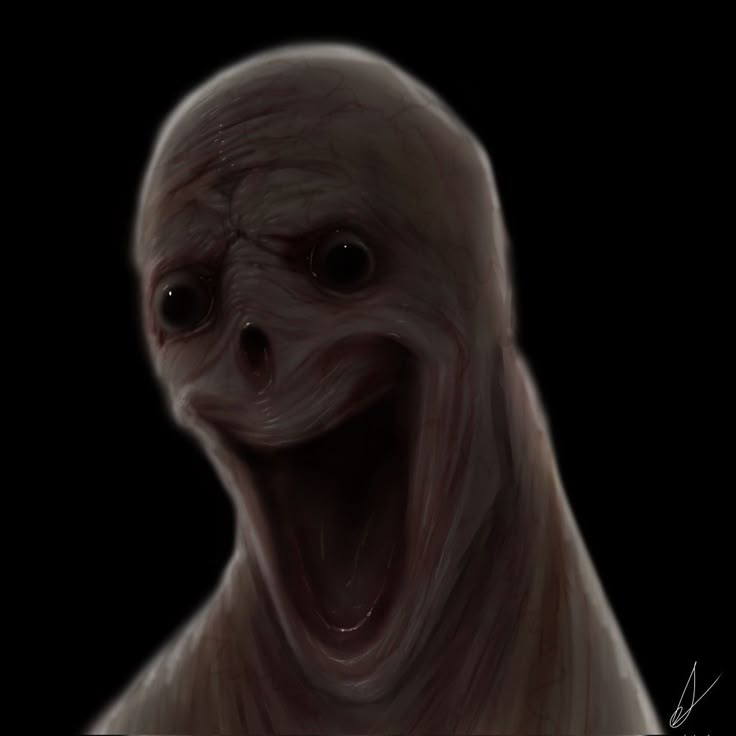
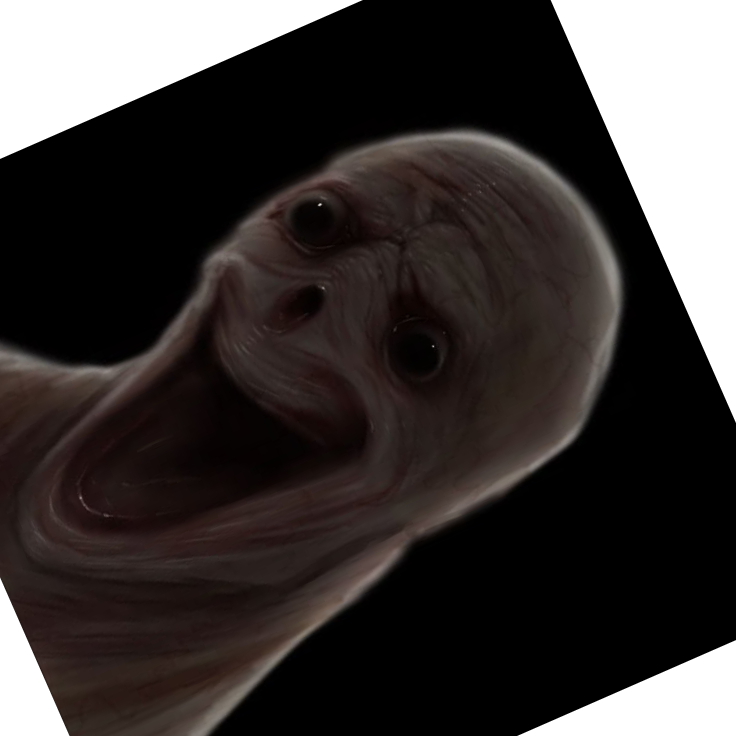
Minox Fixes

diff --git a/Tarea2-27531458-BryanSilva-28309661-OrianaArellano/src/main/kotlin/actions/RotationController.kt b/Tarea2-27531458-BryanSilva-28309661-OrianaArellano/src/main/kotlin/actions/RotationController.kt
@@ -26,29 +26,24 @@ class RotationController {
     //Rotacion
     fun rotation(imageMatrix: ImageMatrix, angle: Double): ImageMatrix {
         val src = imageMatrix.image
-        val width = src.cols()
-        val height = src.rows()
-        val center = Point(width / 2.0, height / 2.0)
+        val radians = Math.toRadians(angle)
+        val sin = abs(kotlin.math.sin(radians))
+        val cos = abs(kotlin.math.cos(radians))
+        val newWidth = (src.width() * cos + src.height() * sin).toInt()
+        val newHeight = (src.width() * sin + src.height() * cos).toInt()
+        val center = Point(src.width() / 2.0, src.height() / 2.0)
         val rotationMat = Imgproc.getRotationMatrix2D(center, angle, 1.0)
-        val absCos = abs(rotationMat.get(0, 0)[0])
-        val absSin = abs(rotationMat.get(0, 1)[0])
-        val newWidth = (height * absSin + width * absCos).toInt()
-        val newHeight = (height * absCos + width * absSin).toInt()
-        val oldCenterX = center.x
-        val oldCenterY = center.y
-        val newCenterX = newWidth / 2.0
-        val newCenterY = newHeight / 2.0
-        rotationMat.put(0, 2, rotationMat.get(0, 2)[0] + (newCenterX - oldCenterX))
-        rotationMat.put(1, 2, rotationMat.get(1, 2)[0] + (newCenterY - oldCenterY))
+        rotationMat.put(0, 2, rotationMat.get(0, 2)[0] + (newWidth / 2.0 - center.x))
+        rotationMat.put(1, 2, rotationMat.get(1, 2)[0] + (newHeight / 2.0 - center.y))
         val dest = Mat()
         Imgproc.warpAffine(
             src,
             dest,
             rotationMat,
             Size(newWidth.toDouble(), newHeight.toDouble()),
-            Imgproc.INTER_LANCZOS4,
+            Imgproc.INTER_LINEAR,
             Core.BORDER_CONSTANT,
-            Scalar(0.0, 0.0, 0.0, 0.0)
+            Scalar(0.0, 0.0, 0.0, 0.0) // Fondo transparente/negro
         )
         rotationMat.release()
         return ImageMatrix(dest)

diff --git a/Tarea2-27531458-BryanSilva-28309661-OrianaArellano/src/main/kotlin/controllers/BasicViewController.kt b/Tarea2-27531458-BryanSilva-28309661-OrianaArellano/src/main/kotlin/controllers/BasicViewController.kt
@@ -358,20 +358,20 @@ class BasicViewController {
     @FXML
     fun onRotationClockClick(event: ActionEvent) {
         matrixImage?:return
-        originalGeometryImage = rotationController.rotation(originalGeometryImage!!, 5.0)
+        originalGeometryImage = rotationController.rotation(originalGeometryImage!!, -5.0)
         imageController.changeOriginalRotatedOrZoom(originalGeometryImage!!)
         imageController.saveToHistory(matrixImage!!)
-        matrixImage = rotationController.rotation(matrixImage!!, 5.0)
+        matrixImage = rotationController.rotation(matrixImage!!, -5.0)
         imageController.changeView(matrixImage!!)
     }
     //Rotacion AntiClockwise
     @FXML
     fun onRotationClockAntiClick(event: ActionEvent) {
         matrixImage?:return
-        originalGeometryImage = rotationController.rotation(originalGeometryImage!!, -5.0)
+        originalGeometryImage = rotationController.rotation(originalGeometryImage!!, +5.0)
         imageController.changeOriginalRotatedOrZoom(originalGeometryImage!!)
         imageController.saveToHistory(matrixImage!!)
-        matrixImage = rotationController.rotation(matrixImage!!, -5.0)
+        matrixImage = rotationController.rotation(matrixImage!!, +5.0)
         imageController.changeView(matrixImage!!)
     }
     //Rotacion 180 grados
